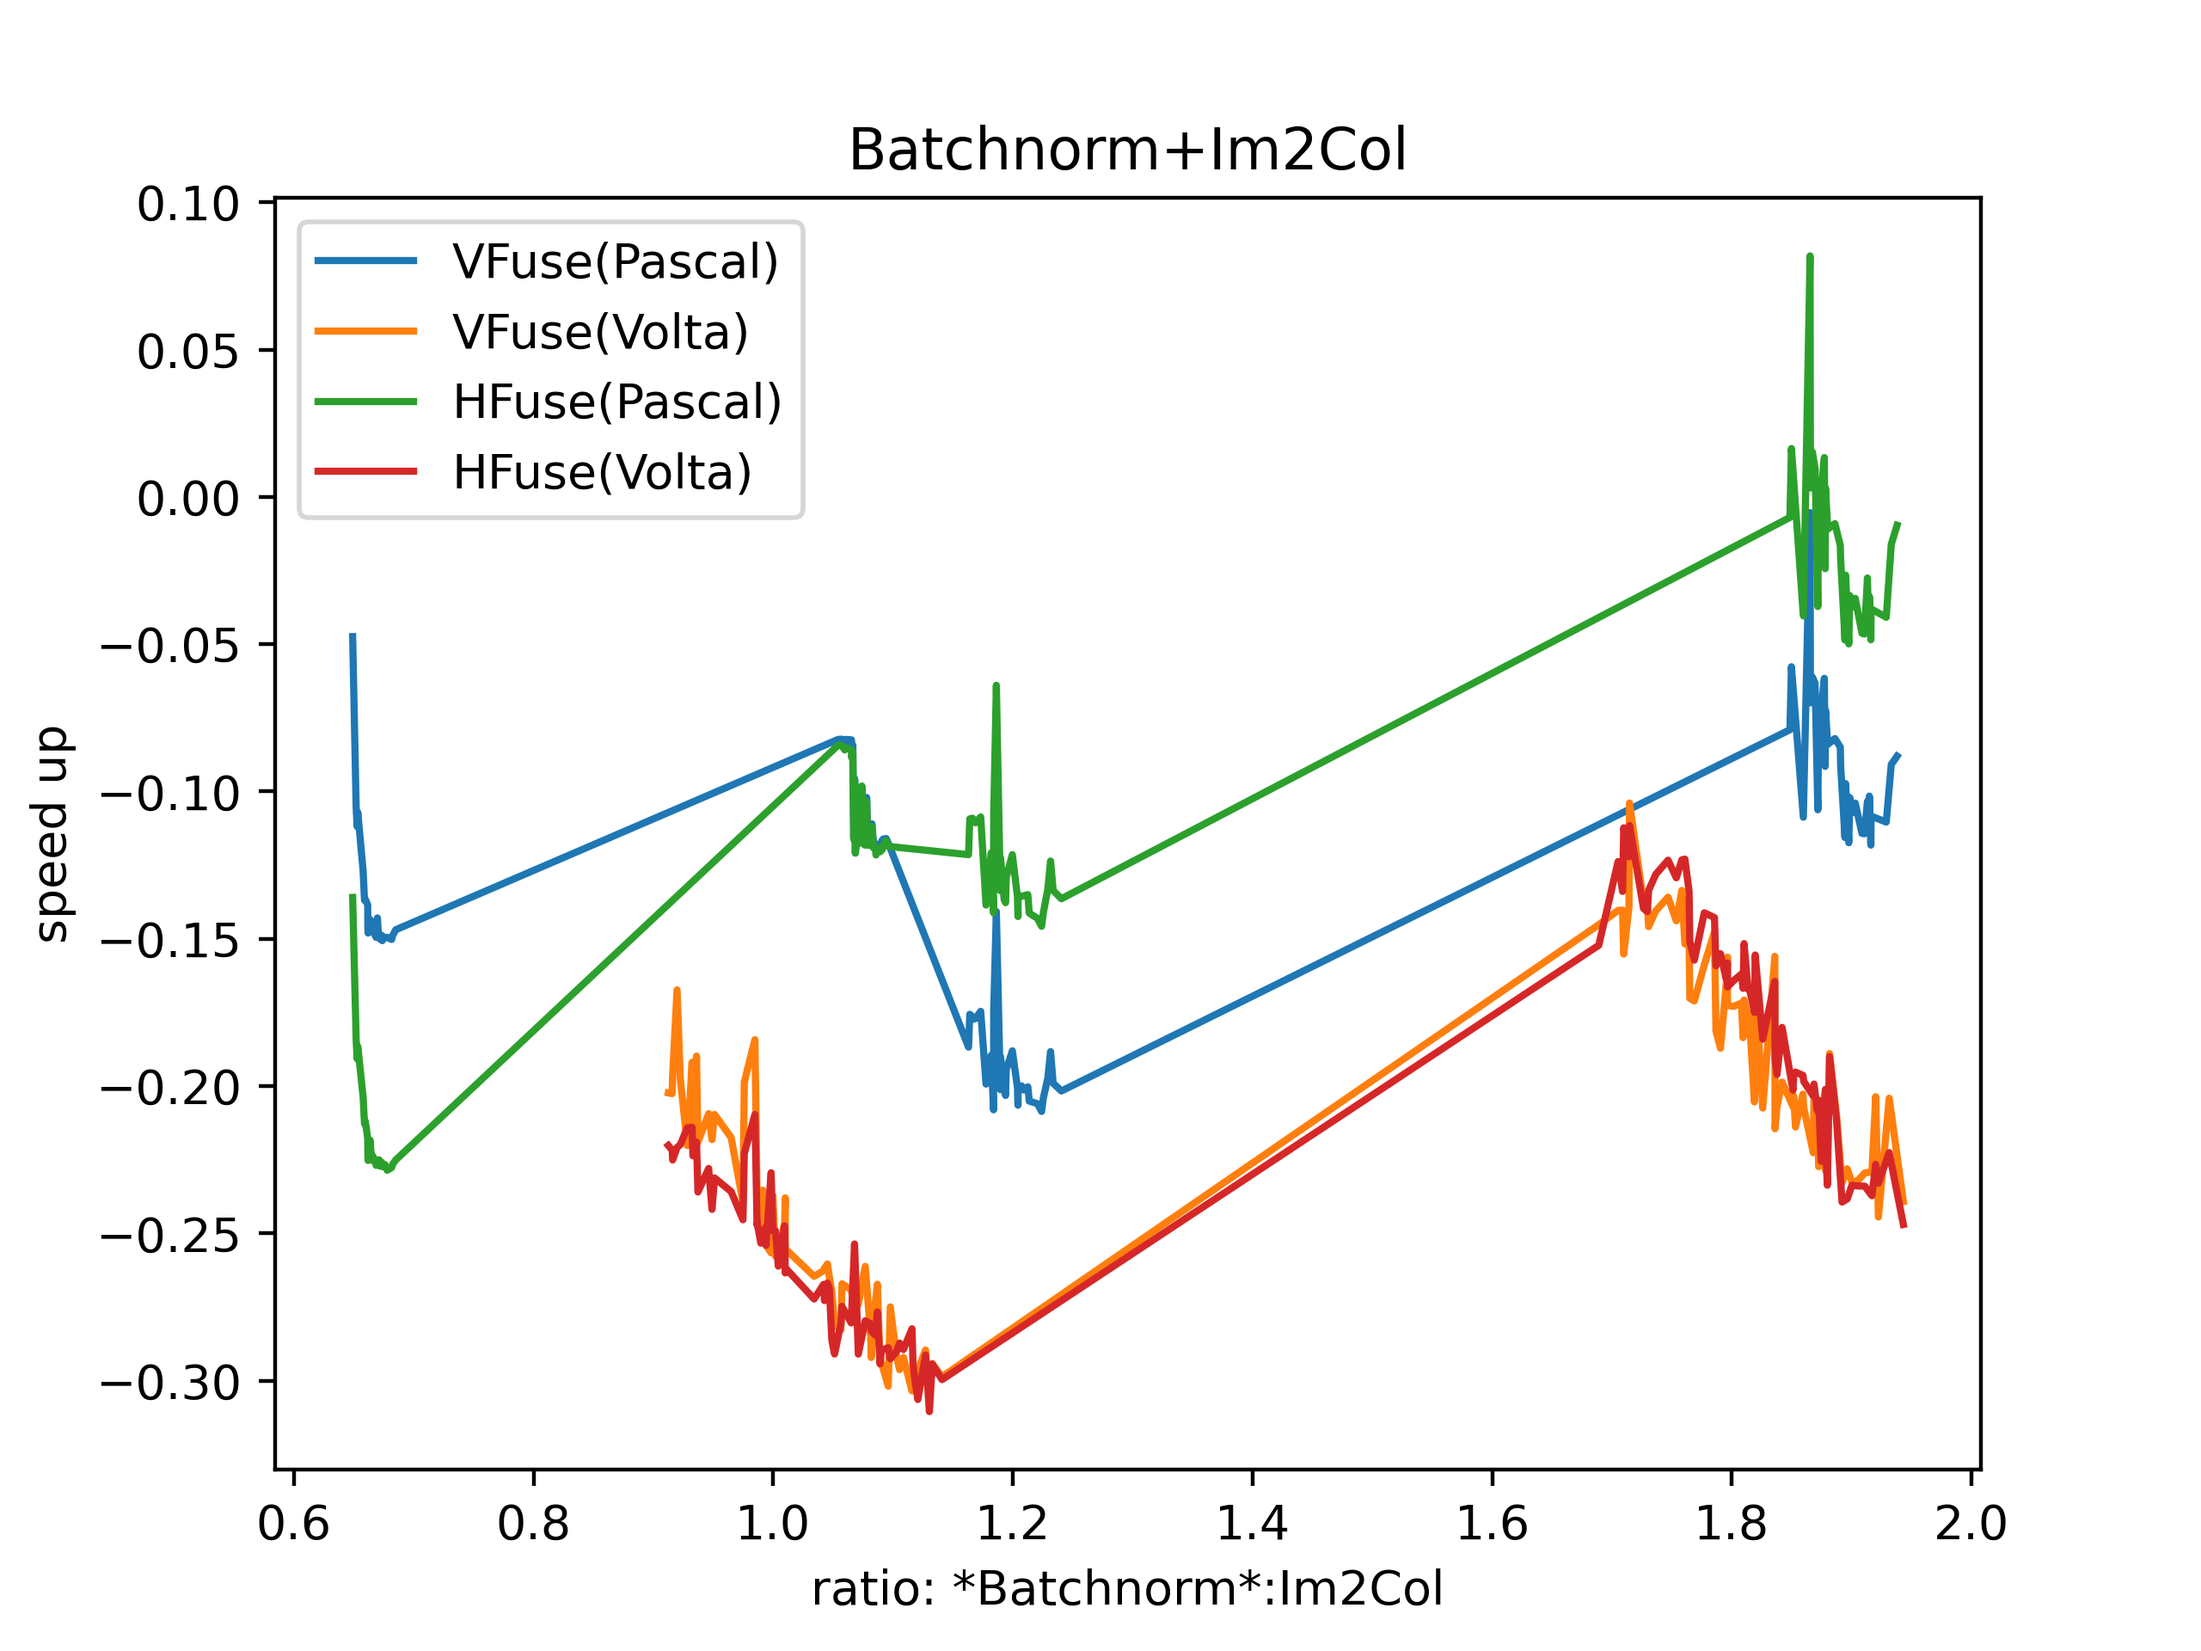
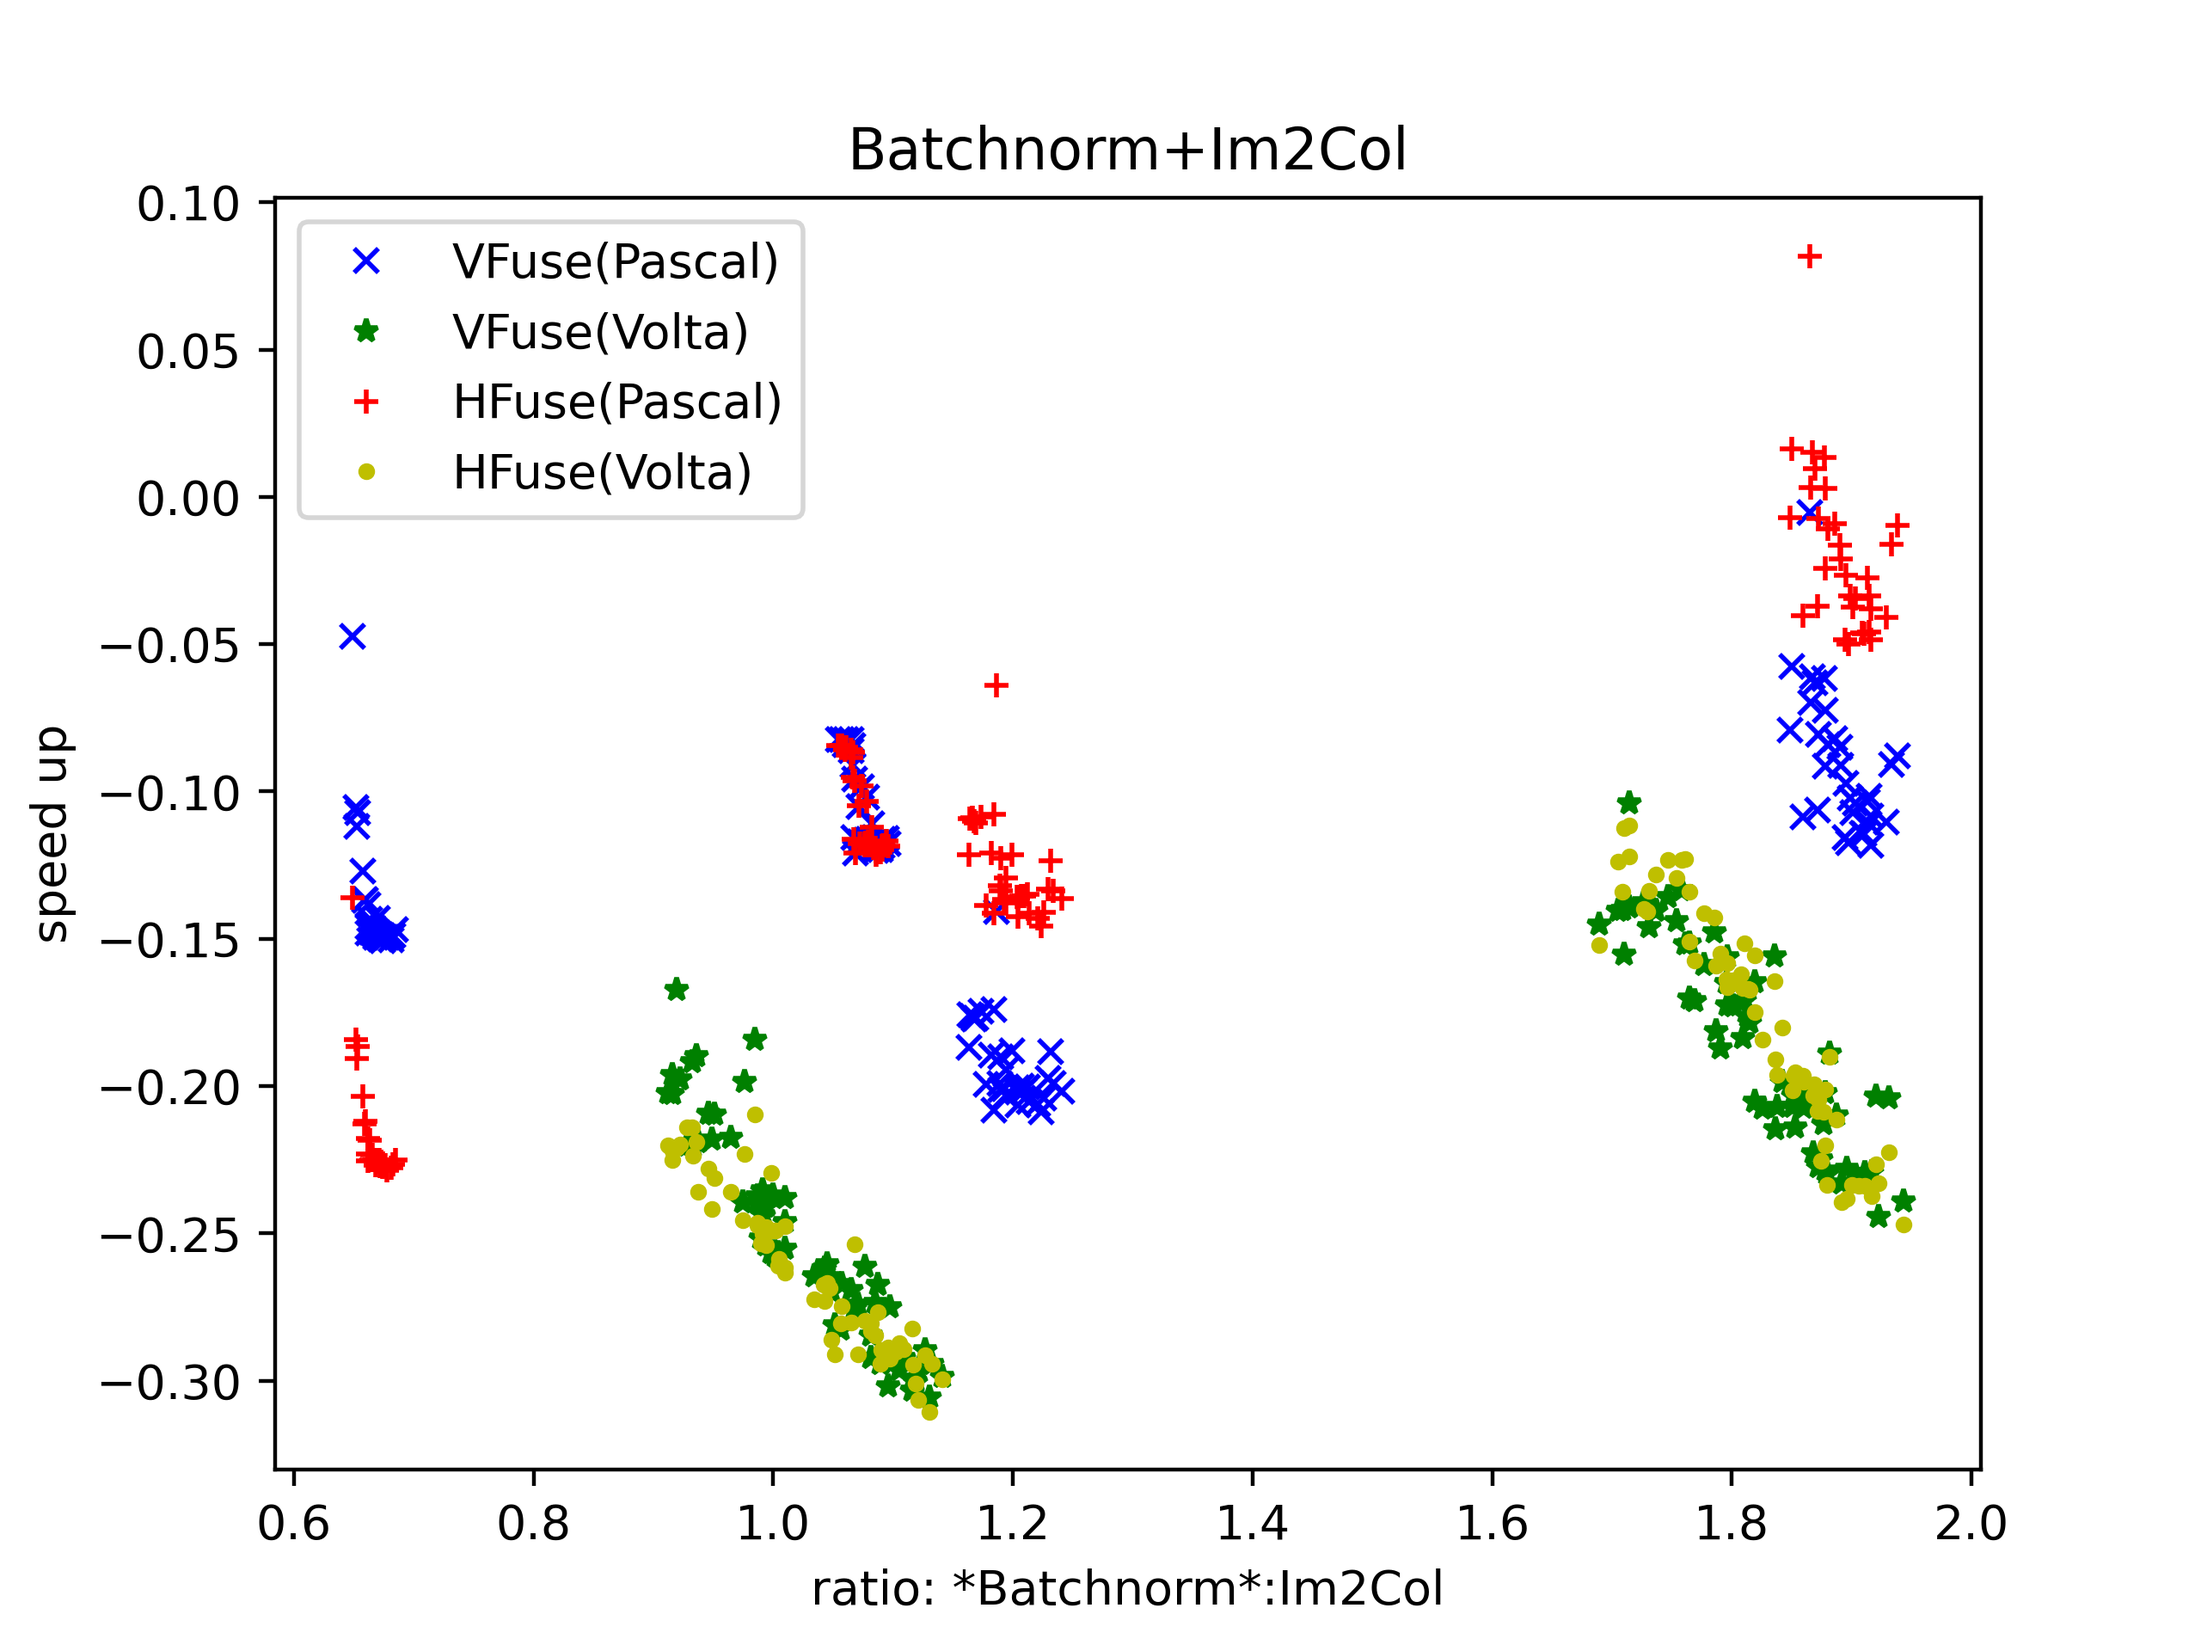
update.

diff --git a/scripts/analyze_nvprof.py b/scripts/analyze_nvprof.py
@@ -272,6 +272,18 @@ volta_selection = {
     "Im2Col+Upsample": ["HF", "VF"],
     "Maxpool+Upsample": ["LB+HF", "VF"]
 }
+
+plot_shape = {
+    "VFuse": {
+        "Pascal": "xb",
+        "Volta": "*g",
+    },
+
+    "HFuse": {
+        "Pascal": "+r",
+        "Volta": ".y",
+    },
+}
 # r2 = {}
 analyze_execution_time("./data-new/ml-pascal-chart-1.json", r1, r1_s, ["Batchnorm+Im2Col"])
 analyze_execution_time("./data-new/ml-pascal-chart-2.json", r1, r1_s, [])
@@ -339,6 +351,7 @@ def build_graph(result, selection, result_volta, selection_volta):
                 a = np.array(st) / np.array(get_average(res[tag]))
                 a -= 1
                 lab = "HFuse" if "VF" not in tag else "VFuse"
+                fmt = plot_shape[lab][name]
                 lab += "(" + name + ")"
                 arr1inds = ra.argsort()
                 sorted_arr1 = ra[arr1inds[::-1]]
@@ -346,7 +359,7 @@ def build_graph(result, selection, result_volta, selection_volta):
                 range_arr = (sorted_arr1 <= range_max) & (sorted_arr1 >= range_min)
                 # lab = tag
                 # sorted_arr2 = arr2[arr1inds[::-1]]
-                plt.plot(sorted_arr1[range_arr], a[range_arr], label=lab)
+                plt.plot(sorted_arr1[range_arr], a[range_arr], fmt, label=lab, markersize=5)
             check(v, selection, vst, vra, "Pascal")
             check(result_volta[k], selection_volta, volta_st, volta_ra, "Volta")
         plt.legend()
